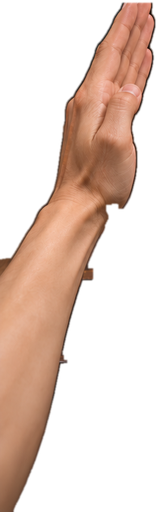
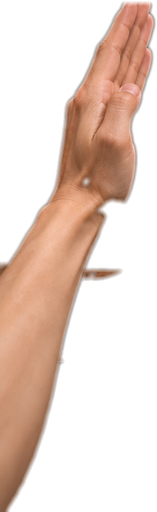
fix(h5): block drill start without camera and refill wrist sprites
A camera drill no longer starts after a missing device, a denied
permission, or a hand model that is not ready. Both skin sprites
close the inner-wrist gap and soften the cut edge.

diff --git a/docs/h5/drill-cam-v1.0.html b/docs/h5/drill-cam-v1.0.html
@@ -1003,6 +1003,7 @@ function createHandViewState() {
     },
     setPrompt(on) {
       promptBoth = !!on;
+      if (promptBoth && presence === "idle") presence = "need_both";
     },
     sync(shape, packets, now) {
       const split = splitHands(packets);
@@ -1092,6 +1093,13 @@ const handViewState = createHandViewState();
 
 function kickHand(vision, delegate) {
   initHand(vision, delegate).then((ok) => {
+    if (awaitBoth && !running) {
+      $("camStatus").textContent = "请双手入镜";
+      $("note").textContent = ok && camReady
+        ? "双手同时入镜后开课。触控演示可不经双手。"
+        : "需开摄像头且双手入镜。触控演示可不经双手。";
+      return;
+    }
     if (running) return;
     $("note").textContent = ok
       ? "姿态与手模已就绪（" + delegate + "）。开摄像头后开始；日课可用触控。"
@@ -1433,6 +1441,15 @@ async function start() {
     $("camStatus").textContent = "待开启";
     return;
   }
+  if (mode === "drill") {
+    awaitBoth = true;
+    handFollow = false;
+    handViewState.setPrompt(true);
+    $("btnStrike").disabled = false;
+    $("camStatus").textContent = "请双手入镜";
+    $("note").textContent = "需开摄像头且双手入镜。触控演示可不经双手。";
+    showBanner("请双手入镜", 1600);
+  }
   try { await initPose(); }
   catch (e) {
     const msg = (e && (e.message || String(e))) || "未知错误";
@@ -1450,16 +1467,11 @@ async function start() {
       ]);
     } catch (err) { console.warn(err); }
   }
-  if (!okCam && mode === "drill") {
-    showBanner("摄像头未开，可用触控演示跑谱", 1800);
-  }
-  if (mode === "drill" && okCam && handLandmarker) {
-    awaitBoth = true;
-    handFollow = false;
-    handViewState.setPrompt(true);
-    if (mode !== "contest") $("btnStrike").disabled = false;
+  if (mode === "drill") {
     $("camStatus").textContent = "请双手入镜";
-    $("note").textContent = "双手同时入镜后开课。触控演示可不经双手。";
+    $("note").textContent = okCam && handLandmarker
+      ? "双手同时入镜后开课。触控演示可不经双手。"
+      : "需开摄像头且双手入镜。触控演示可不经双手。";
     return;
   }
   beginRound();

diff --git a/docs/h5/HAND_MODEL_PLAN.md b/docs/h5/HAND_MODEL_PLAN.md
@@ -36,7 +36,7 @@
 - 腕根：landmark 0 驱动虚手根，并避开木人中线。指尖相对腕只在与当前冲／膀同向时，把绘制角向该方向轻推；反向时仍用斜上／斜下规范角。护手不跟手指。
 - 画面：皮肤精灵画在 `#handOverlay` 下三分之一。`armRU`／`arm.mid` 高亮的 `z-index` 压过虚手。摄像头小窗只留 Pose 关节点。
 - 丢手：单帧漏检先留上一对双手。超过短暂间隔后清掉虚手。缺一手显示「请双手入镜」并软暂停；两手都没了显示「手模丢失，回到框内」。
-- 双手门：摄像头日课点「开始」后，同一帧同时有左手和右手才开课。缺一手短签「请双手入镜」，不进冲／膀，不画单手。课中再丢一手就软暂停计时，双手回来续同一击。触控演示不经这道门。Hands 没加载时，开始仍走原来的 Pose 日课。
+- 双手门：摄像头日课点「开始」后，摄像头不可用、权限失败或手模未加载时也不进课，短签和 camStatus 都是「请双手入镜」。同一帧同时有左手和右手才开课。触控演示不经这道门。
 - 皮肤：`docs/h5/hand-skin-L.png`、`docs/h5/hand-skin-R.png`，从参考图裁前臂中段到指尖，最长边 512。护手／冲／膀共用这两张，靠腕角和掌倾区分，画在 `#handOverlay` 下三分之一。
 - 未在此环境验证：Safari 实机，以及竖屏 390 宽的 C4 可读门。
 
